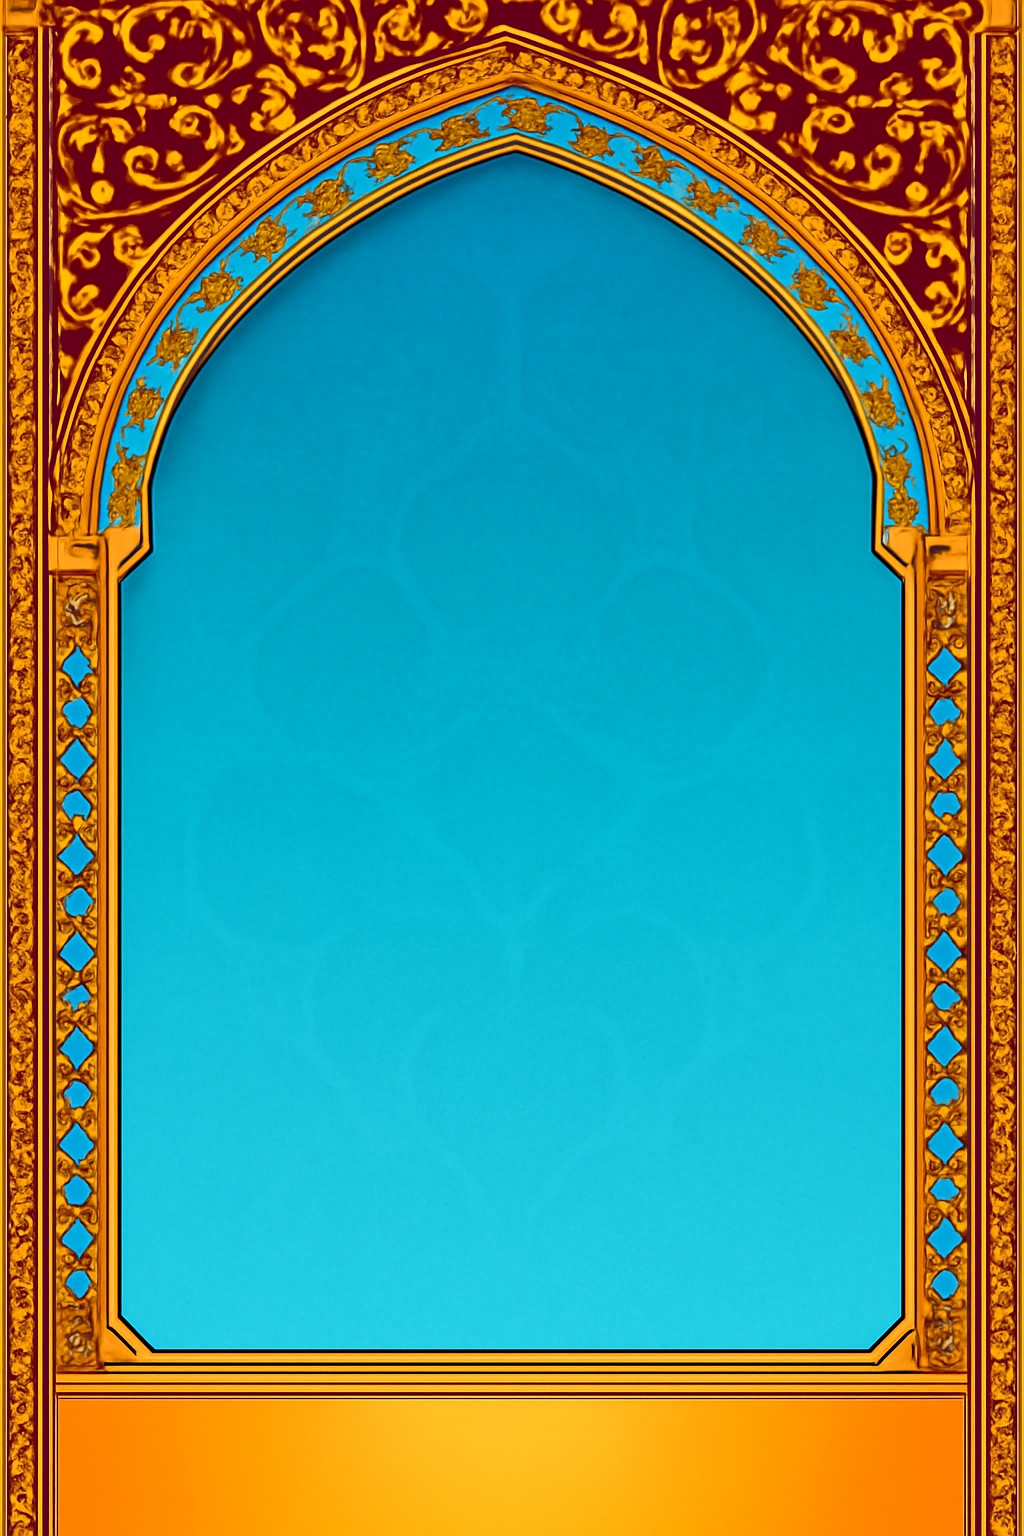
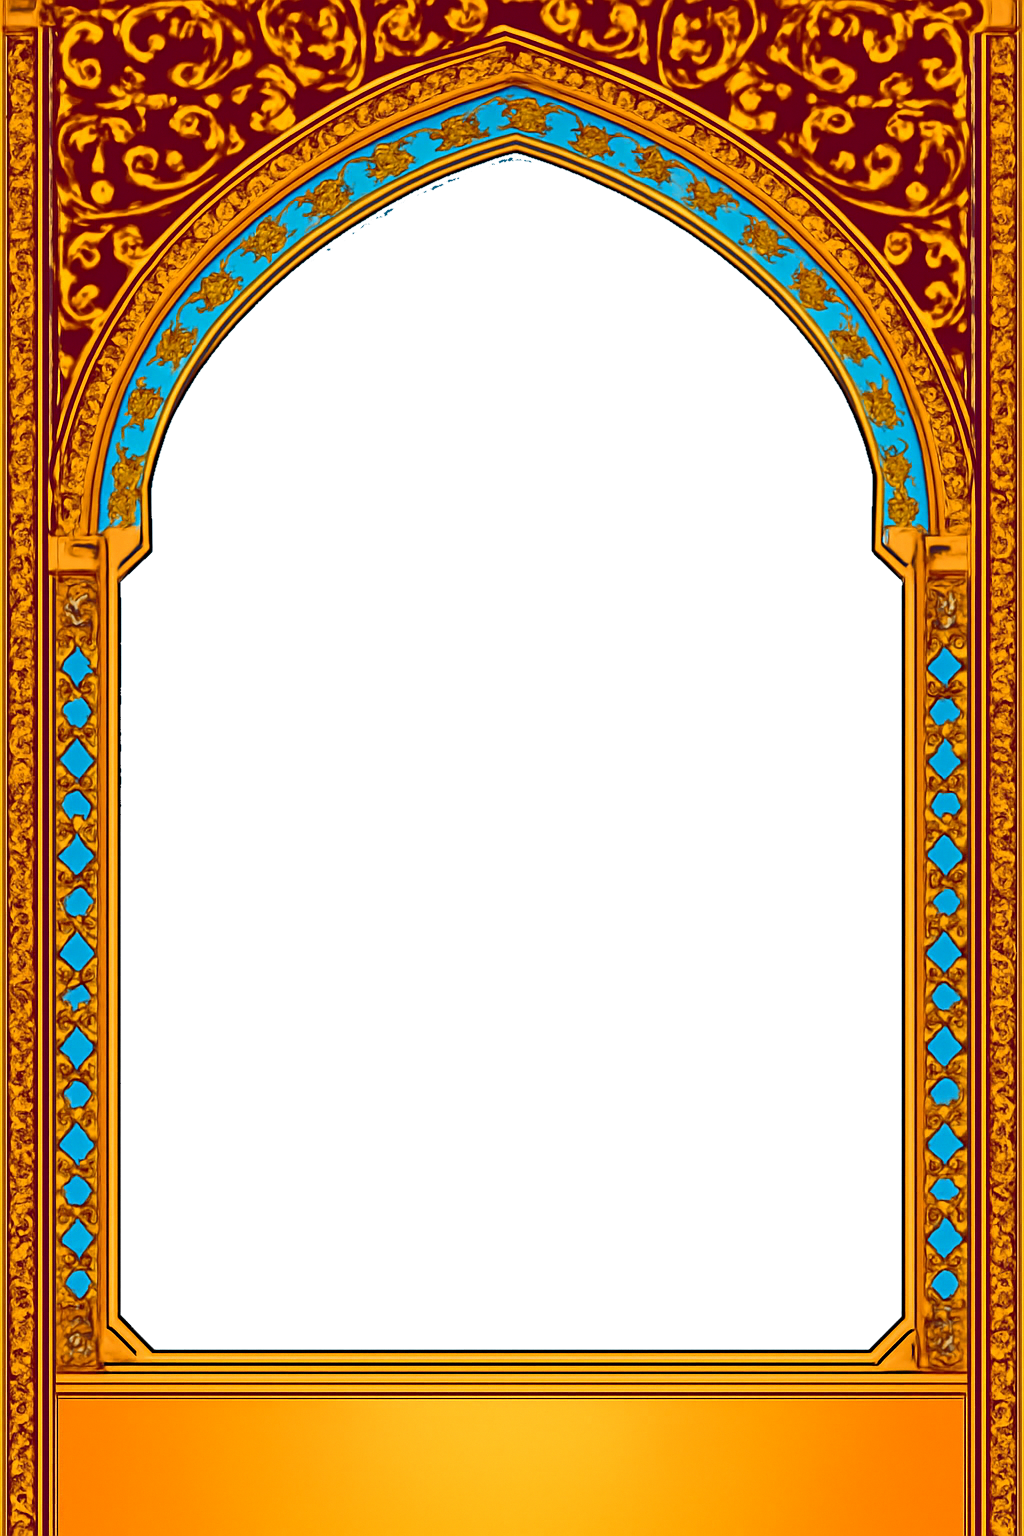
added minimize to tray feature and close confirmation dialog

diff --git a/src/electron/event-handler.ts b/src/electron/event-handler.ts
@@ -1,0 +1,36 @@
+import { app, BrowserWindow, dialog } from "electron";
+import { ipcMainHandle } from "./utils.js";
+import { getSalahTimesPayload } from "./salah-times-muscat.js";
+
+export function handleEvents(mainWindow: BrowserWindow) {
+  mainWindow.on("minimize", () => mainWindow.hide());
+  handleCloseEvent(mainWindow);
+  ipcMainHandle("getSalahTimes", () => getSalahTimesPayload());
+}
+
+function handleCloseEvent(mainWindow: BrowserWindow) {
+  let isQuitting = false;
+
+  mainWindow.on("close", async (e) => {
+    if (isQuitting) {
+      return;
+    }
+
+    e.preventDefault();
+
+    const options = {
+      buttons: ["Yes", "No"],
+      title: "Confirm",
+      message: "Are you sure you want to close the app?",
+      detail: "Press Yes to continue and No to cancel.",
+    };
+
+    const result = await dialog.showMessageBox(mainWindow, options);
+    const yes = result.response === 0;
+
+    if (yes) {
+      isQuitting = true;
+      app.quit();
+    }
+  });
+}

diff --git a/src/electron/main.ts b/src/electron/main.ts
@@ -1,9 +1,10 @@
-import { app, BrowserWindow, dialog } from "electron";
-import { ipcMainHandle, isDev } from "./utils.js";
+import { app, BrowserWindow } from "electron";
+
+import { isDev } from "./utils.js";
 import { getPreloadPath, getUIPath } from "./path-resolver.js";
-import { getSalahTimesPayload } from "./salah-times-muscat.js";
-import "./salah-monitor.js";
 import { scheduleReminders } from "./salah-monitor.js";
+import { createTray } from "./tray.js";
+import { handleEvents } from "./event-handler.js";
 
 app.on("ready", async () => {
   const mainWindow = new BrowserWindow({
@@ -23,9 +24,9 @@ app.on("ready", async () => {
     mainWindow.loadFile(getUIPath());
   }
 
-  ipcMainHandle("getSalahTimes", () => {
-    return getSalahTimesPayload();
-  });
+  createTray(mainWindow);
+
+  handleEvents(mainWindow);
 
   await scheduleReminders(mainWindow);
 });

diff --git a/src/electron/salah-monitor.ts b/src/electron/salah-monitor.ts
@@ -194,8 +194,8 @@ async function sendReminder(reminder: Reminder, mainWindow: BrowserWindow) {
     detail: detail,
   };
 
-  const response = await dialog.showMessageBox(mainWindow, options);
-  const yes = response.response === 0;
+  const result = await dialog.showMessageBox(mainWindow, options);
+  const yes = result.response === 0;
 
   if (yes && reminder.salah === userRecord.salah) {
     userRecord.prayed = true;

diff --git a/src/electron/tray.ts b/src/electron/tray.ts
@@ -1,0 +1,14 @@
+import { BrowserWindow, Tray } from "electron";
+import path from "path";
+import { getAssetsPath } from "./path-resolver.js";
+
+export function createTray(mainWindow: BrowserWindow): Tray {
+  const tray = new Tray(path.join(getAssetsPath(), "icon.png"));
+
+  tray.on("click", () => {
+    mainWindow.show();
+    mainWindow.focus();
+  });
+
+  return tray;
+}

diff --git a/src/ui/SalahTimesDisplay.css b/src/ui/SalahTimesDisplay.css
@@ -4,7 +4,7 @@ body {
 }
 
 .container {
-  background-image: url('assets/background-v3.png');
+  background-image: url('assets/background.png');
   background-size: cover;
   background-position: center;
   position: relative;
@@ -30,7 +30,7 @@ body {
 }
 
 table {
-  border-collapse: collapse; /* Removes double borders */
+  border-collapse: collapse; 
 }
 
 th, td {

diff --git a/src/electron/path-resolver.ts b/src/electron/path-resolver.ts
@@ -13,3 +13,7 @@ export function getPreloadPath() {
 export function getUIPath() {
   return path.join(app.getAppPath(), "dist-react/index.html");
 }
+
+export function getAssetsPath() {
+  return path.join(app.getAppPath(), isDev() ? "." : "..", "src/assets");
+}
